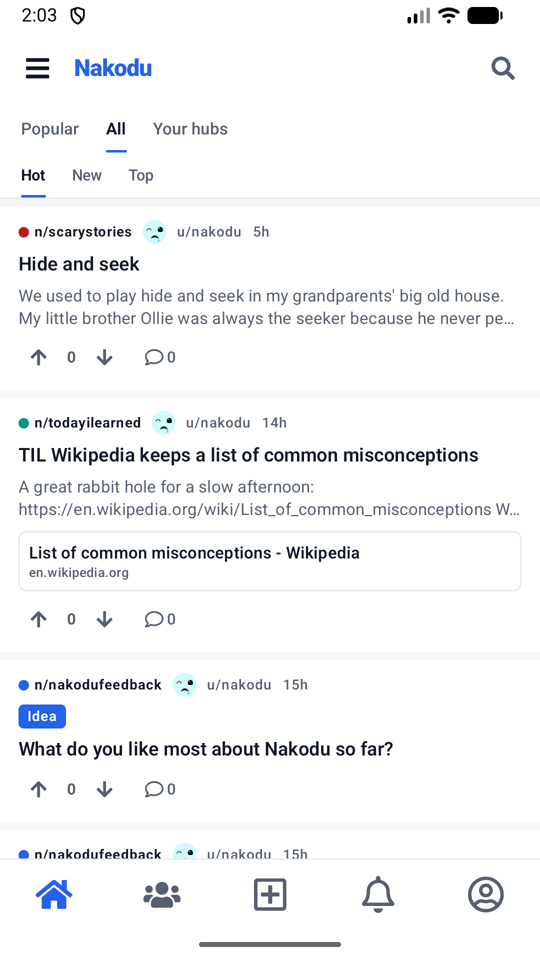
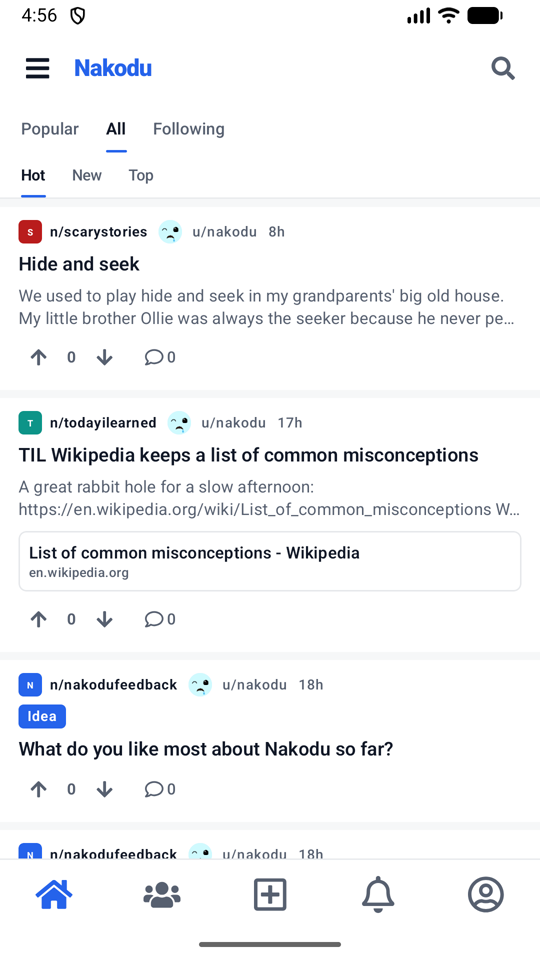
Website: screenshots keep their shape, fresh screenshots

diff --git a/style.css b/style.css
@@ -34,7 +34,7 @@ nav.links a:hover { color: var(--ink); }
 .btn.primary:hover { background: var(--blue-dark); border-color: var(--blue-dark); }
 .btn.ghost { color: var(--blue); background: transparent; }
 .note { font-size: 14px; color: var(--muted); margin-top: 14px; }
-.phones { display: flex; gap: 16px; justify-content: center; }
+.phones { display: flex; gap: 16px; justify-content: center; align-items: flex-start; }
 .phones img { width: 46%; max-width: 240px; height: auto; border-radius: 6px; border: 1px solid var(--line); box-shadow: 0 10px 30px rgba(15, 23, 42, 0.12); }
 .phones img:nth-child(2) { margin-top: 40px; }
 
